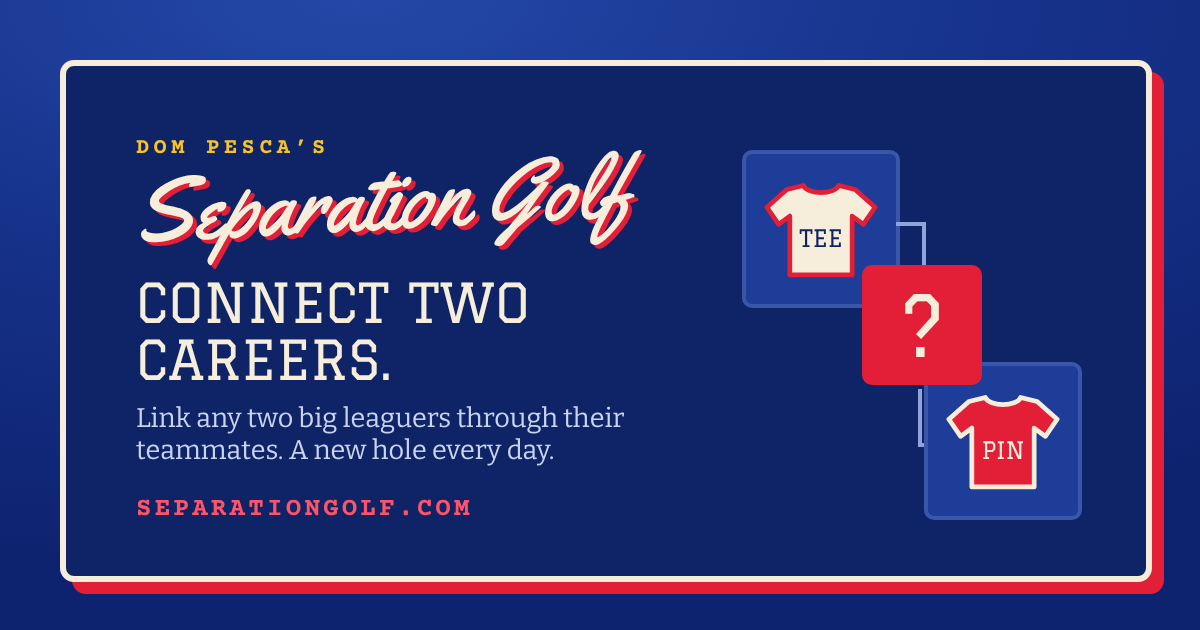
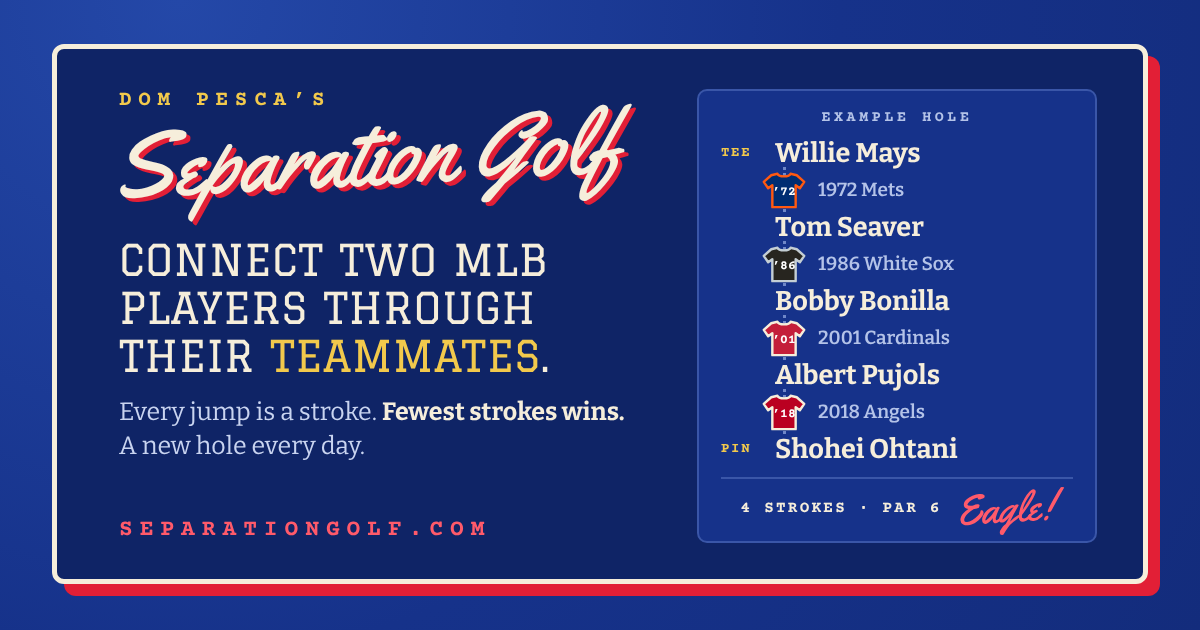
Link preview explains the game: one-line rule plus an example hole (Mays to Ohtani in 4, an eagle)
tools/og/og.html is the source; screenshot it at 1200x630 to rebuild og-image.png.

Claude-Session: https://claude.ai/code/session_01CMurgCjXZHgGeRKjT94nkx

diff --git a/tools/og/og.html b/tools/og/og.html
@@ -1,0 +1,42 @@
+<!doctype html><html><head><meta charset="utf-8">
+<link rel="stylesheet" href="https://fonts.googleapis.com/css2?family=Yellowtail&family=Graduate&family=Bitter:wght@400;600;700&family=Courier+Prime:wght@700&display=swap">
+<style>
+*{box-sizing:border-box;margin:0}
+body{width:1200px;height:630px;background:radial-gradient(circle at 15% 0%,#2448a8,#16328a 55%,#132c7c);font-family:Bitter,serif;color:#f6eedb;position:relative;overflow:hidden}
+.card{position:absolute;left:52px;top:44px;width:1096px;height:540px;background:#0f2466;border:5px solid #f6eedb;border-radius:12px;box-shadow:12px 12px 0 #e21f36;display:flex;padding:40px 46px 36px 62px;gap:30px}
+.l{flex:1 1 auto;display:flex;flex-direction:column}
+.by{font:700 21px "Courier Prime",monospace;letter-spacing:.32em;color:#f2c94c}
+.logo{font:400 92px/1 Yellowtail,cursive;color:#f6eedb;text-shadow:4px 4px 0 #e21f36;transform:rotate(-3deg);transform-origin:left bottom;margin:10px 0 22px -4px;white-space:nowrap}
+.h{font:400 43px/1.12 Graduate,serif;text-transform:uppercase;letter-spacing:.01em}
+.h b{color:#f2c94c;font-weight:400}
+.s{font:400 25px/1.35 Bitter,serif;color:#c9d4f0;margin-top:16px}
+.s b{color:#f6eedb;font-weight:700}
+.url{margin-top:auto;font:700 23px "Courier Prime",monospace;letter-spacing:.3em;color:#ff5a6a}
+.r{flex:0 0 400px;background:#16328a;border:2px solid #3a56a8;border-radius:10px;padding:18px 22px 14px;position:relative}
+.ey{font:700 15px "Courier Prime",monospace;letter-spacing:.24em;color:#b4c3e8;text-align:center;margin-bottom:8px}
+.row{display:flex;align-items:center;gap:12px;height:37px}
+.tag{flex:0 0 42px;font:700 14px "Courier Prime",monospace;letter-spacing:.12em;color:#f2c94c}
+.nm{font:700 27px Bitter,serif;white-space:nowrap}
+.lk{display:flex;align-items:center;gap:12px;height:37px;padding-left:42px;position:relative}
+.lk:before{content:"";position:absolute;left:62px;top:-4px;bottom:-4px;border-left:3px dotted #6f87c8}
+.j{position:relative;width:44px;height:38px;flex:none;margin-left:-1px;z-index:1}
+.j svg{width:44px;height:38px;display:block}
+.j span{position:absolute;left:0;right:0;top:14px;text-align:center;font:700 13px "Courier Prime",monospace}
+.tm{font:600 19px Bitter,serif;color:#b4c3e8}
+.res{display:flex;align-items:center;justify-content:center;gap:14px;margin-top:10px;padding-top:8px;border-top:2px solid #3a56a8}
+.res .n{font:700 16px "Courier Prime",monospace;letter-spacing:.14em;color:#f6eedb}
+.res .w{font:400 42px/1 Yellowtail,cursive;color:#ff5a6a;transform:rotate(-4deg)}
+</style></head><body><div class="card">
+<div class="l"><div class="by">DOM PESCA’S</div><div class="logo">Separation Golf</div>
+<div class="h">Connect two MLB players through their <b>teammates</b>.</div>
+<div class="s">Every jump is a stroke. <b>Fewest strokes wins.</b><br>A new hole every day.</div>
+<div class="url">SEPARATIONGOLF.COM</div></div>
+<div class="r"><div class="ey">EXAMPLE HOLE</div><div id="route"></div>
+<div class="res"><span class="n">4 STROKES · PAR 6</span><span class="w">Eagle!</span></div></div>
+</div>
+<script>
+const J=(c1,c2,tc,y)=>`<div class="j"><svg viewBox="0 0 40 34"><path d="M14 2.2 8.4 3.6 1.6 9.6 5.6 15.4 9.4 12.6V32.6H30.6V12.6l3.8 2.8 4-5.8-6.8-6-5.6-1.4C24.6 5.4 15.4 5.4 14 2.2z" fill="${c1}" stroke="${c2}" stroke-width="2.2" stroke-linejoin="round"/></svg><span style="color:${tc}">’${y}</span></div>`;
+const P=[["TEE","Willie Mays"],["","Tom Seaver"],["","Bobby Bonilla"],["","Albert Pujols"],["PIN","Shohei Ohtani"]];
+const L=[["#002D72","#FF5910","#fff","72","1972 Mets"],["#27251F","#C4CED4","#fff","86","1986 White Sox"],["#C41E3A","#f6eedb","#fff","01","2001 Cardinals"],["#BA0021","#f6eedb","#fff","18","2018 Angels"]];
+document.getElementById("route").innerHTML=P.map((p,i)=>`<div class="row"><span class="tag">${p[0]}</span><span class="nm">${p[1]}</span></div>`+(L[i]?`<div class="lk">${J(...L[i].slice(0,4))}<span class="tm">${L[i][4]}</span></div>`:"")).join("");
+</script></body></html>

diff --git a/index.html b/index.html
@@ -7,19 +7,19 @@
 <link rel="canonical" href="https://separationgolf.com/">
 <meta name="robots" content="index, follow, max-image-preview:large">
 <meta name="author" content="Dom Pesca">
-<meta property="og:title" content="Separation Golf: The Daily MLB Teammates Puzzle">
-<meta property="og:description" content="Connect any two big leaguers through their teammates. Fewest jumps wins. A new hole every day.">
+<meta property="og:title" content="Separation Golf: Connect MLB Players Through Their Teammates">
+<meta property="og:description" content="Link two MLB players through their teammates. Every jump is a stroke, and the fewest strokes wins. A new hole every day.">
 <meta property="og:type" content="website">
 <meta name="twitter:card" content="summary_large_image">
-<meta name="twitter:title" content="Separation Golf: The Daily MLB Teammates Puzzle">
-<meta name="twitter:description" content="Connect any two big leaguers through their teammates. Fewest jumps wins. A new hole every day.">
+<meta name="twitter:title" content="Separation Golf: Connect MLB Players Through Their Teammates">
+<meta name="twitter:description" content="Link two MLB players through their teammates. Every jump is a stroke, and the fewest strokes wins. A new hole every day.">
 <meta property="og:url" content="https://separationgolf.com/">
-<meta property="og:image" content="https://separationgolf.com/og-image.png?v=3">
+<meta property="og:image" content="https://separationgolf.com/og-image.png?v=4">
 <meta property="og:image:width" content="1200">
 <meta property="og:image:height" content="630">
-<meta property="og:image:alt" content="Dom Pesca's Separation Golf: connect any two big leaguers through their teammates.">
+<meta property="og:image:alt" content="Separation Golf. Connect two MLB players through their teammates. Example: Willie Mays to Shohei Ohtani in 4 strokes, an eagle.">
 <meta property="og:site_name" content="Separation Golf">
-<meta name="twitter:image" content="https://separationgolf.com/og-image.png?v=3">
+<meta name="twitter:image" content="https://separationgolf.com/og-image.png?v=4">
 <link rel="icon" type="image/svg+xml" href="logo-mark.svg?v=2">
 <link rel="icon" type="image/png" sizes="32x32" href="icon-32.png?v=2">
 <link rel="icon" type="image/png" sizes="48x48" href="icon-48.png?v=2">
@@ -27,7 +27,7 @@
 <script type="application/ld+json">
 {"@context":"https://schema.org","@graph":[
  {"@type":"WebSite","@id":"https://separationgolf.com/#site","name":"Separation Golf","url":"https://separationgolf.com/","inLanguage":"en-US"},
- {"@type":"WebApplication","name":"Separation Golf","url":"https://separationgolf.com/","description":"A free daily baseball puzzle: connect two MLB players through the teammates they shared, in as few jumps as you can.","applicationCategory":"GameApplication","genre":["Puzzle","Baseball","Trivia"],"operatingSystem":"Any (web browser)","browserRequirements":"Requires JavaScript","isAccessibleForFree":true,"offers":{"@type":"Offer","price":"0","priceCurrency":"USD"},"image":"https://separationgolf.com/og-image.png?v=3","author":{"@type":"Person","name":"Dom Pesca","url":"https://www.instagram.com/dompescamedia/"},"isPartOf":{"@id":"https://separationgolf.com/#site"}}
+ {"@type":"WebApplication","name":"Separation Golf","url":"https://separationgolf.com/","description":"A free daily baseball puzzle: connect two MLB players through the teammates they shared, in as few jumps as you can.","applicationCategory":"GameApplication","genre":["Puzzle","Baseball","Trivia"],"operatingSystem":"Any (web browser)","browserRequirements":"Requires JavaScript","isAccessibleForFree":true,"offers":{"@type":"Offer","price":"0","priceCurrency":"USD"},"image":"https://separationgolf.com/og-image.png?v=4","author":{"@type":"Person","name":"Dom Pesca","url":"https://www.instagram.com/dompescamedia/"},"isPartOf":{"@id":"https://separationgolf.com/#site"}}
 ]}
 </script>
 <link rel="manifest" href="manifest.webmanifest">
